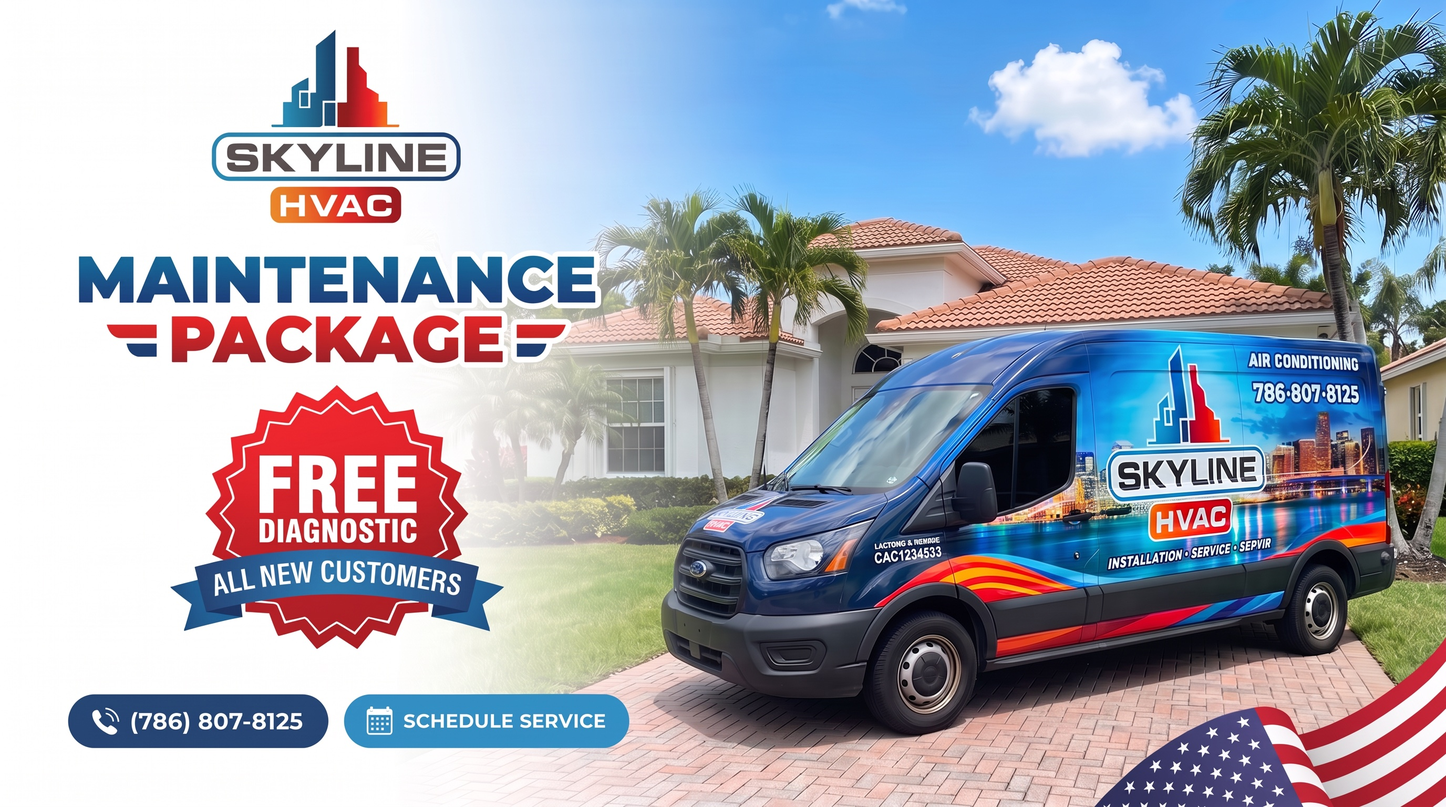
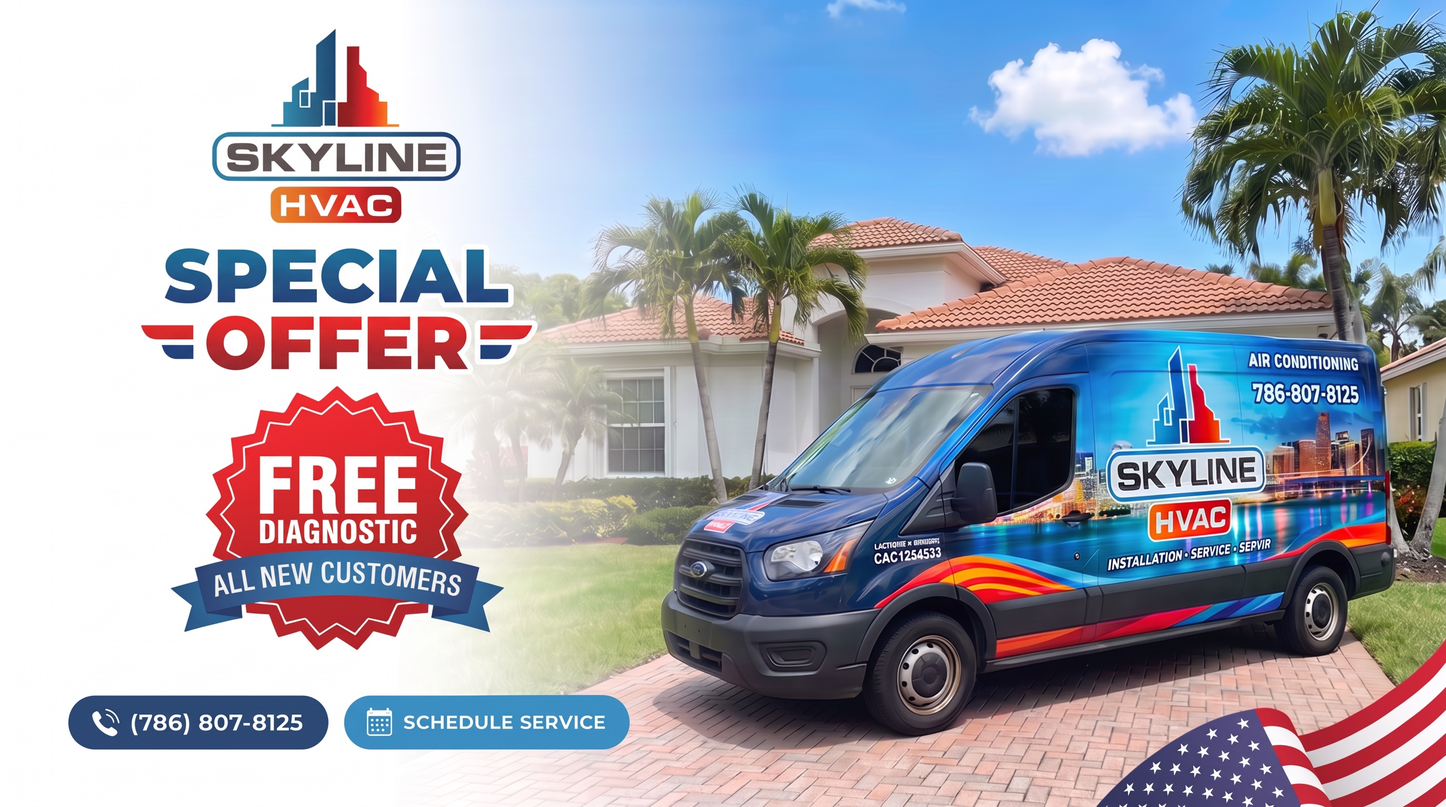
Flyer headline: Special Offer

diff --git a/src/components/Gallery.tsx b/src/components/Gallery.tsx
@@ -53,7 +53,7 @@ export default function Gallery() {
         <a href="/#estimate" className="group mb-14 block">
           <img
             src={asset("/media/gallery-flyer.jpg")}
-            alt="Skyline HVAC maintenance package — free diagnostic for all new customers. Call (786) 807-8125."
+            alt="Skyline HVAC special offer — free diagnostic for all new customers. Call (786) 807-8125."
             className="border-frost/10 w-full rounded-3xl border shadow-[0_24px_70px_rgba(3,13,26,0.55)] transition-transform duration-500 group-hover:scale-[1.01]"
           />
         </a>
